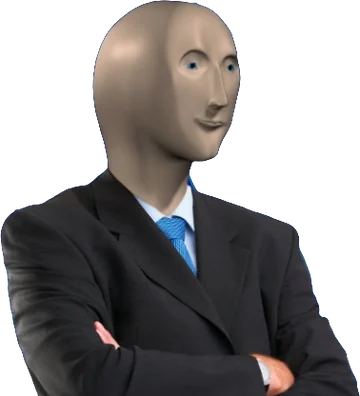
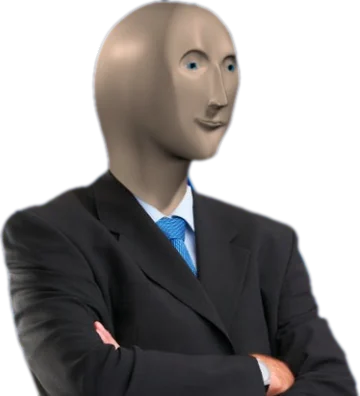
Hero characters: hidden cut edges, grid peeks on landing, softer outlines, full Doge
- Characters sink below the ground line by a fraction of their own width and
  hover never lifts them past it; the container clips instead of hiding, so it
  can't be scrolled to reveal the edge
- Shorter hero: the first row of the meme grid shows on landing; the
  'Hover any tile' hint is gone
- Feathered alpha on all three cut-outs
- Doge re-cut from the classic uncaptioned photo with the isnet model; both
  ears intact

diff --git a/meme_viz.css b/meme_viz.css
@@ -3759,3 +3759,70 @@ body:not(.home-page):not(.thesis-page) > .site-footer { margin-left: 0; position
   50% { transform: rotate(2.5deg); }
 }
 @media (max-width: 760px) { .home-hero .hero-content { padding-bottom: 20px; } }
+
+
+/* ── Hero characters v2: shorter hero so the meme grid peeks on landing;
+      characters sink below the ground line so their cut edge never shows ── */
+.home-hero .hero-content {
+  min-height: 0;
+  height: min(calc(100vh - 240px), 620px);
+  padding-top: 24px;
+  padding-bottom: 0;
+  justify-content: center;
+  margin-bottom: 16px;
+}
+.home-hero .hero-cta { margin-bottom: 110px; }
+.hero-hover-hint { display: none !important; }
+.collage-sort { margin-bottom: 16px; }
+
+/* the image is taller than what shows: 18% of it always stays below the line,
+   and hover moves never lift it by more than that */
+.hero-char { bottom: 0; }
+.char-pepe  { width: clamp(190px, 18vw, 260px); transform: translateY(24%); }
+.char-doge  { width: clamp(150px, 13vw, 190px); right: 22%; transform: translateY(26%); }
+.char-mememan { width: clamp(150px, 13vw, 190px); transform: translateY(22%); }
+.char-pepe:hover { transform: translateY(16%); animation: pepe-sob2 .5s ease-in-out infinite; }
+@keyframes pepe-sob2 {
+  0%, 100% { transform: translateY(16%) rotate(-2.5deg); }
+  50% { transform: translateY(16%) rotate(2.5deg); }
+}
+.char-doge:hover { transform: translateY(20%) rotate(-8deg); }
+.char-mememan:hover { transform: translateY(10%); }
+.char-bubble { top: -6%; }
+.char-stonks { top: 6%; }
+
+@media (max-width: 1099px) {
+  .home-hero .hero-content { height: min(calc(100vh - 220px), 560px); }
+  .home-hero .hero-cta { margin-bottom: 90px; }
+}
+@media (max-width: 760px) {
+  .home-hero .hero-content { height: auto; padding-bottom: 20px; }
+  .home-hero .hero-cta { margin-bottom: 0; }
+}
+
+
+/* ── Hero characters v3: sink and lift measured in the character's own width,
+      so the cut bottom edge always stays below the ground line ── */
+.hero-char { line-height: 0; transform-origin: 50% 100%; }
+.char-pepe    { --cw: clamp(190px, 18vw, 260px); }
+.char-doge    { --cw: clamp(150px, 13vw, 190px); }
+.char-mememan { --cw: clamp(150px, 13vw, 190px); }
+.char-pepe, .char-doge, .char-mememan { width: var(--cw); transform: none; }
+.char-pepe    { bottom: calc(var(--cw) * -0.22); }
+.char-doge    { bottom: calc(var(--cw) * -0.34); }
+.char-mememan { bottom: calc(var(--cw) * -0.32); }
+
+.char-pepe:hover { transform: translateY(calc(var(--cw) * -0.06)); animation: pepe-sob3 .5s ease-in-out infinite; }
+@keyframes pepe-sob3 {
+  0%, 100% { transform: translateY(calc(var(--cw) * -0.06)) rotate(-2.5deg); }
+  50% { transform: translateY(calc(var(--cw) * -0.06)) rotate(2.5deg); }
+}
+.char-doge:hover { transform: translateY(calc(var(--cw) * -0.1)) rotate(-8deg); }
+.char-mememan:hover { transform: translateY(calc(var(--cw) * -0.14)); }
+.char-bubble { top: -14%; }
+.char-stonks { top: 0; }
+.char-mememan:hover .char-stonks { transform: translate(-50%, -115%); }
+@media (prefers-reduced-motion: reduce) {
+  .char-pepe:hover, .char-doge:hover, .char-mememan:hover { transform: none; animation: none; }
+}
+.hero-chars { overflow: clip; }

diff --git a/index.html b/index.html
@@ -34,14 +34,13 @@
         <h1 class="hero-title"><span>THE MEME</span><span>ONTOLOGY</span></h1>
         <p class="hero-tagline">5,000 Know Your Meme entries, modelled as an OWL&nbsp;2 knowledge graph</p>
         <a class="hero-cta" href="visualizations.html">Explore the visualizations <span aria-hidden="true">→</span></a>
-        <p class="hero-hover-hint">Hover any tile to read its RDF</p>
         <div class="hero-chars" aria-hidden="true">
           <a class="hero-char char-pepe" href="visualizations.html#meme/pepehands" tabindex="-1">
             <img src="img/hero/pepe.webp" alt="" width="520" height="395">
             <span class="char-bubble">feels bad man</span>
           </a>
           <a class="hero-char char-doge" href="visualizations.html#meme/ironic-doge-memes" tabindex="-1">
-            <img src="img/hero/doge.webp" alt="" width="453" height="315">
+            <img src="img/hero/doge.webp" alt="" width="460" height="494">
             <span class="doge-wow w1">such ontology</span>
             <span class="doge-wow w2">much graph</span>
             <span class="doge-wow w3">very triple</span>
